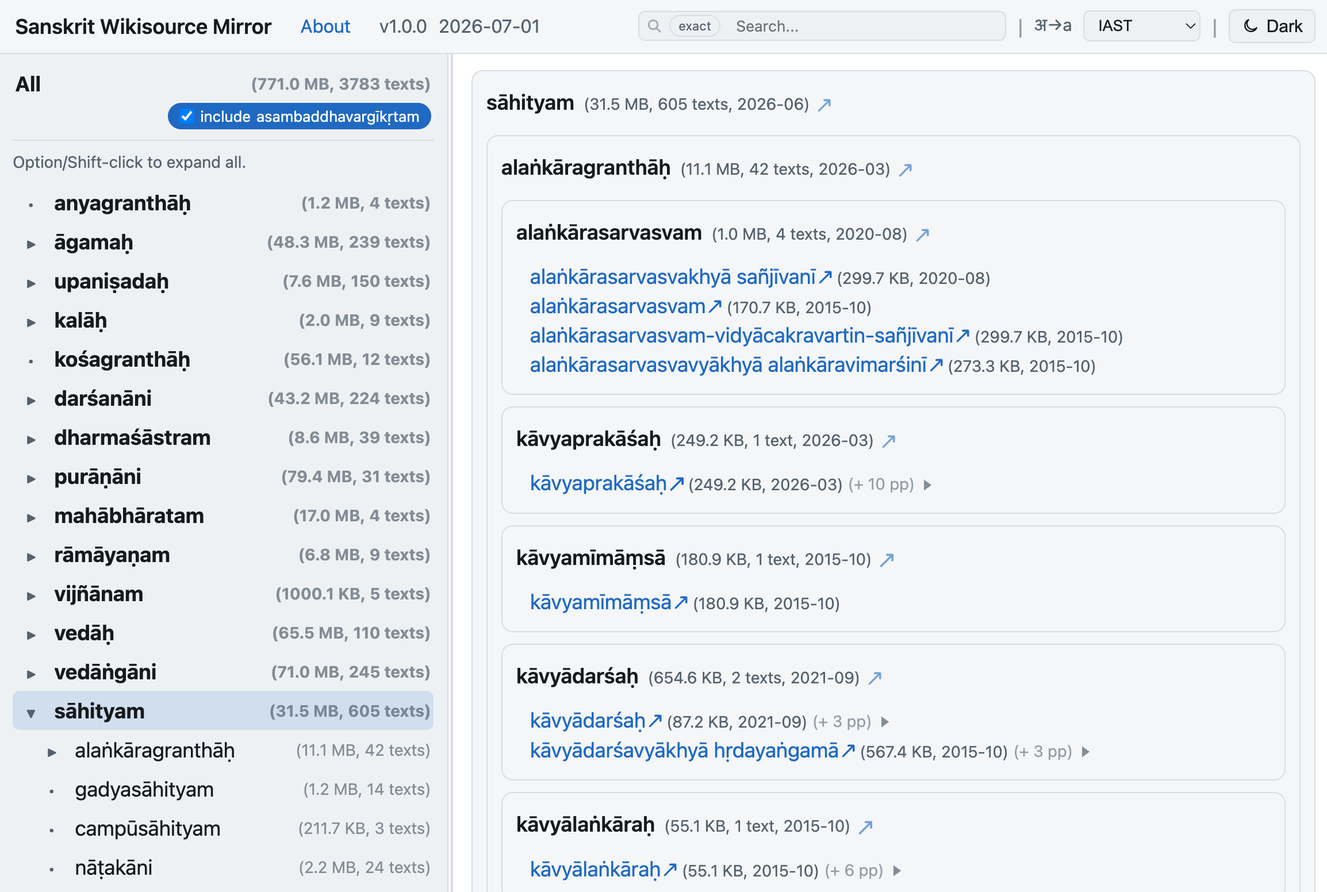
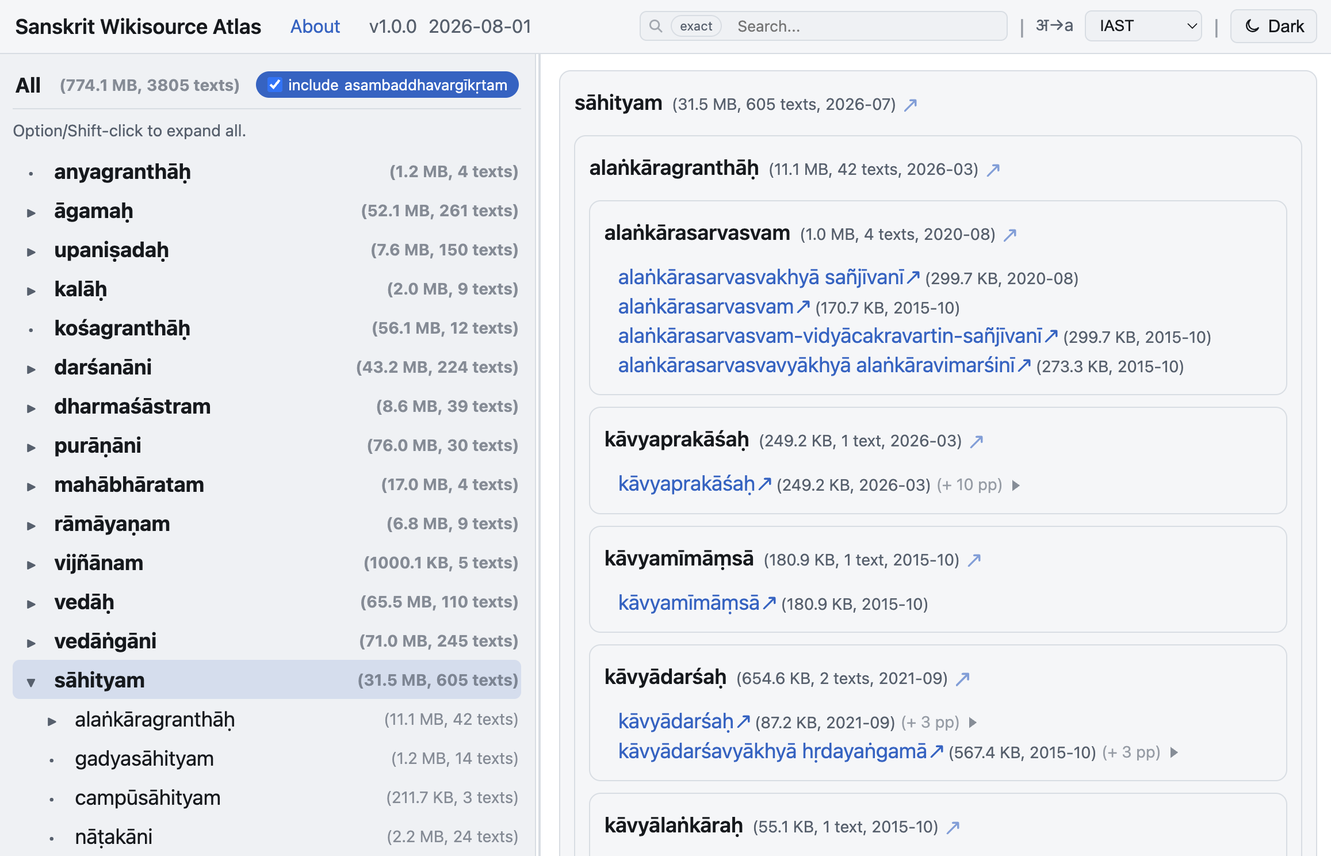
chore: update snapshots and some more wording

diff --git a/blog/sanskrit-wikisource-and-atlas.html b/blog/sanskrit-wikisource-and-atlas.html
@@ -39,7 +39,7 @@
             <h3>How useful is it?</h3>
             <p>On multiple occasions, I've found very interesting things there, like first-online full-text postings of Gaṅgeśa's Tattvacintāmaṇi and Śrīharṣa's Naiṣadhīyacarita. As far as I know, no one has undertaken a rigorous evaluation of its data quality relative to other well-known collections like GRETIL, but I think it is much more potentially useful than many people realize.</p>
 
-            <h3>But.</h3>
+            <h3>However.</h3>
             <p>The Wikisource platform has inherent pros and cons for hosting an evolving e-text collection like this, and on balance, I think the cons win out, with the result that the collection has not been living up to its potential. It's hard enough to keep a sprawling, decentralized project on track, and from what I've seen, the Sanskrit domain shows a worrying lack of curatorial vision — frankly just a lot of mess, which I'll discuss more below. As a result, it can be very hard to plumb its depths — a fact ironically reinforced by the Wikisource logo itself.</p>
 
             <figure>
@@ -53,9 +53,9 @@
 
             <p>The discerning user will not take long to notice that most Sanskrit Wikisource content lacks any usable metadata at all beyond revision history. Specifically, not knowing what edition or editions a given text is based on can make it extremely difficult to use responsibly. Users are left with the implicit claim that "this just <em>is <strong>the</strong></em> Pañcadaśī by Vidyāraṇya." An enterprising researcher may well figure it out by comparing against available printed editions. But why the guessing game?</p>
 
-            <p><em>The exception is items produced through Wikisource's in-built <a href="https://en.wikisource.org/wiki/Help:Proofread" target="_blank">Proofread</a> OCR pipeline, whose <a href="https://en.wikisource.org/wiki/Help:Index_pages" target="_blank">index pages</a> — called <a href="https://sa.wikisource.org/wiki/अनुक्रमणिका:A_Sanskrit_primer_(1901).djvu" target="_blank">अनुक्रमणिका</a> on the Sanskrit domain — sometimes link back to a source PDF title page.</em></p>
+            <p><em>The exception is items produced through Wikisource's in-built <a href="https://en.wikisource.org/wiki/Help:Proofread" target="_blank">Proofread</a> OCR pipeline, whose <a href="https://en.wikisource.org/wiki/Help:Index_pages" target="_blank"> Index pages</a> hold the source PDF. On the Sanskrit domain, these Index pages are called "अनुक्रमणिका;" see for example this <a href="https://sa.wikisource.org/wiki/अनुक्रमणिका%3Aन्यायमञ्जरी.pdf" target="_blank">Nyāyamañjarī</a> from the Kashi Sanskrit Series.</em></p>
 
-            <p>This is a real, philological problem. If it's going to be fixed anywhere, I think it should be done on-platform, in collaboration with the contributors who continue to add content.</p>
+            <p>This widespread lack of metadata is a real problem. If it's going to be fixed anywhere, I think it should be done on-platform, in collaboration with the contributors who continue to add content.</p>
 
             <p>Another set of problems, however, can be addressed relatively quickly with a light-touch technological solution.</p>
 
@@ -79,13 +79,13 @@
 
             <p>As for the categorical breakdown itself, it's mostly unobjectionable, but as is always the case, there can be a learning curve if you come from a different taxonomic perspective. And there is undoubtedly mess here, too. By convention on Wikisource, categories are supposed to form a single, cohesive tree covering everything, but some categories are misplaced (e.g., धर्मशास्त्रम् as a sibling of ग्रन्थाः rather than a child); some are unhelpfully separated due to naming differences (ज्योतिष्यम् 9.9 MB and ज्यौतिषम् 1.6 MB); some sit outside of the central tree (ज्यौतिषम् is within वेदाङ्गानि, but ज्योतिष्यम् is free-floating); and many items lack categories altogether.</p>
 
-            <p>And what is an "item" deserving of categorization anyway? It's quite subtle, actually. Abstraction to a "text" level is purely manual on Wikisource and can be done in various ways. One Wikisource editor may choose to put an entire Sanskrit text on a single page. Another may choose to spread it across dozens or hundreds of pages connected by nested tables of contents. Sometimes, the top-level table of contents page is not labeled with a Category, but second-tier (e.g., chapter) table-of-contents pages are. Furthermore, an editor may sometimes wish to rename one or more pages, but because it's hard to chase down and fix all inbound connections, they can just set up redirect pages, adding further layers of navigational complexity. Users are at the mercy of all this curatorial diversity, which may or may not be implemented correctly.</p>
+            <p>And what is an "item" deserving of categorization anyway? It's quite subtle, actually. Abstraction to a "text" level is purely manual on Wikisource and can be done in various ways. One Wikisource editor may choose to put an entire Sanskrit text on a single page. Another may choose to spread it across dozens or hundreds of pages connected by nested tables of contents. Sometimes, the top-level table-of-contents page is not labeled with a Category, but second-tier (e.g., chapter) table-of-contents pages are. Furthermore, an editor may sometimes wish to rename one or more pages, but because it's hard to chase down and fix all inbound connections, they can just set up redirect pages, adding further layers of navigational complexity. Users are at the mercy of all this curatorial diversity, which may or may not be implemented correctly.</p>
 
-            <p>Granted, there are other, non-categorical access options, as well: a search bar, and an alphabetical page index (e.g., <a href="https://sa.wikisource.org/wiki/विशेषः:सर्वपृष्ठानि/फ" target="_blank">फ</a>). But I find both of these to be myopically restrictive and disorienting in their own ways, too. My bet is that, even after trying all of the above, a typical user may still be shrugging their shoulders about whether this collection has material that might be useful to them — and might I add, probably just feeling exhausted by the austere wiki aesthetics of it all. After all the work that went in, by so many people, that's a shame.</p>
+            <p>Granted, there are other, non-categorical access options, as well: a search bar, and an alphabetical page index (e.g., <a href="https://sa.wikisource.org/wiki/विशेषः:सर्वपृष्ठानि/फ" target="_blank">फ</a>). But I find both of these to be myopically restrictive and disorienting in their own ways, too. My bet is that, even after trying all of the above, a typical user may still be shrugging their shoulders about whether this collection has material that might be useful to them — and might I add, probably feeling exhausted by the austere wiki aesthetics of it all. After all the work that went in, by so many people, that's a shame.</p>
 
             <h2>A Better Interface</h2>
 
-            <p>Fortunately, it's possible to create a better way in, even without modifying Wikisource. Based on my understanding of the collection's structure, I made such an alternate interface that I personally find much more user-friendly.</p>
+            <p>Fortunately, it's possible to create another way in, even without modifying Wikisource. Based on my understanding of the collection's structure, I made an alternate interface that I personally find much more user-friendly and informative.</p>
 
             <h3 style="text-align: center;"><a href="https://tylergneill.github.io/sanskrit-wikisource-atlas" target="_blank">https://tylergneill.github.io/sanskrit-wikisource-atlas</a></h3>
 
@@ -95,9 +95,9 @@
 
             <p>I call this new interface an "atlas" because it not only charts the navigable waters but also offers analytic insights not directly readable from the surface. It is purely a navigational layer, hosting no text of its own, so all of its links bring you to sa.wikisource.org. It understands and compensates for many of the issues listed above, giving you: 1) cleaner browsing and search in a single-page display with a sidebar; 2) no distracting Wikimedia artifacts (e.g., "निष्कासनाय", "to be deleted"); 3) transliteration options; 4) more intuitive abstraction to the "text" level; and 5) clearer stats, specifically page and text counts, plus size and last-updated info throughout.</p>
 
-            <p>The way I did it: 1) download the full data; 2) process it to calculate relationships and counts; 3) boil that info down to <a href="https://github.com/tylergneill/sanskrit-wikisource-atlas/tree/main/docs/data" target="_blank">a single main data file</a>; and then 4) build a simple single-page app on top of that file, which GitHub Pages easily hosts for free.</p>
+            <p>The way I did it: 1) download the full data; 2) process it to calculate relationships and counts; 3) boil that info down to <a href="https://github.com/tylergneill/sanskrit-wikisource-atlas/tree/main/docs/data" target="_blank">a single main data file</a>; and then 4) build a simple website on top of that file, which GitHub Pages easily hosts for free.</p>
 
-            <p>The main reason I do not re-host the full text data myself, as a true "mirror" would do, is that the collection is demonstrably still living and growing. The Atlas's last-updated info for each item clearly shows this, as does Wikisource's own <a href="https://sa.wikisource.org/wiki/विशेषः:नूतनपरिवर्तनानि" target="_blank">"सद्यपरिवर्तनानि," i.e., Recent Changes page</a>. Like <a href="../projects#panditya">Pāṇḍitya's</a> use of <a href="https://panditproject.org" target="_blank">Pandit Project</a>, this Atlas starts from a data snapshot, builds functionality on top, and points back to the source for further reference. That does mean that it needs to be periodically refreshed to stay current. Fortunately, an <a href="https://github.com/tylergneill/sanskrit-wikisource-atlas/tree/main/pipeline" target="_blank">automated pipeline&nbsp;</a> makes that simple.</p>
+            <p>The main reason I do not re-host the full text data myself, as a true "mirror" would do, is that the collection is demonstrably still living and growing. The Atlas's last-updated info for each item clearly shows this, as does Wikisource's own <a href="https://sa.wikisource.org/wiki/विशेषः:नूतनपरिवर्तनानि" target="_blank">"सद्यपरिवर्तनानि," i.e., Recent Changes page</a>. Like <a href="../projects#panditya">Pāṇḍitya's</a> use of <a href="https://panditproject.org" target="_blank">Pandit Project</a>, this Atlas starts from a data snapshot, builds functionality on top, and points back to the source for further reference. That does mean that it needs to be periodically refreshed to stay current. Fortunately, an <a href="https://github.com/tylergneill/sanskrit-wikisource-atlas/tree/main/pipeline" target="_blank">automated pipeline&nbsp;</a> makes that easy.</p>
 
             <p>What the snapshot numbers from Summer 2026 reveal: Sanskrit Wikisource holds over <strong>700 MB</strong> of plain-text content (measured in IAST) in something like 2,000–3,000 texts across over 26,000 individual web pages. For comparison, GRETIL is around 350 MB before controlling for duplication, roughly 175 MB and 700 unique works after (see <a href="gretil-past-and-present">my previous post</a>). In short, Sanskrit Wikisource is definitely huge — roughly <strong>2–4x the size of GRETIL</strong> — and it's very interesting.</p>
 
@@ -116,7 +116,7 @@
 
             <figure>
                 <img src="../images/my_project_screenshots/sa-wiki-atlas-data-reports.png" alt="Sanskrit Wikisource Atlas About page data reports">
-                <figcaption>Atlas About page data reports, generating practical insights that will help improve the source collection</figcaption>
+                <figcaption>Atlas About page data reports, for understanding and improving the source collection</figcaption>
             </figure>
 
             <h2>Charting a Course</h2>
@@ -125,19 +125,19 @@
 
             <h3>Option 1: Duplicate the Data and Don't Look Back</h3>
 
-            <p>Some people will see the value of Sanskrit Wikisource as content they can take and add to their own aggregation effort. To be sure, doing so opens up interesting possibilities for federated processing, like search. Examples are Vishvas Vasuki's <a href="https://github.com/sanskrit/raw_etexts" target="_blank">raw_etexts GitHub repo</a> and Harry Spier's <a href="https://www.searchable-sanskrit-library.org/" target="_blank">Searchable Aggregate Library of Sanskrit</a>. A separate question is whether one will feed eventual improvements back upstream, to improve the source project itself. Wikisource's default license is <a href="https://creativecommons.org/licenses/by-sa/4.0/deed.en" target="_blank">CC BY-SA 4.0</a>, which means that you can do whatever you want as long as you make a properly detailed acknowledgment — the BY part — and release your adaptation under either CC BY-SA 4.0 exactly or another license that Creative Commons has officially designated as one-way or two-way compatible with CC BY-SA 4.0 — the SA part.</p>
+            <p>Some people will see the value of Sanskrit Wikisource as content they can take and add to their own aggregation effort. To be sure, doing so opens up interesting possibilities for federated processing, like search. Examples are Vishvas Vasuki's <a href="https://github.com/sanskrit/raw_etexts" target="_blank">raw_etexts GitHub repo</a> and Harry Spier's <a href="https://www.searchable-sanskrit-library.org/" target="_blank">Searchable Aggregate Library of Sanskrit</a>. A separate question is whether one will also feed eventual improvements back upstream, to help the source project itself. Wikisource's default license is <a href="https://creativecommons.org/licenses/by-sa/4.0/deed.en" target="_blank">CC BY-SA 4.0</a>, which means that you can do whatever you want with its material as long as you 1) make a properly detailed acknowledgment — the BY part — and 2) release your adaptation under either CC BY-SA 4.0 exactly or another license that Creative Commons has officially designated as one-way or two-way compatible with CC BY-SA 4.0 — the SA part.</p>
 
             <p>That all said, I hope to have shown in this post why this kind of copy-and-go strategy is not a properly scholarly approach in this particular case, for three reasons. First, as a whole, Sanskrit Wikisource is riddled with organizational issues, with the result that an extraction effort will very likely make interpretive mistakes. Second, the individual items badly need more metadata for them to be of good scholarly use, and if such philological attention is going to be paid, it should be done at the source, rather than re-derived privately by each person who makes a copy. And third, the collection is still being edited all the time, so any wholesale snapshot will become misleadingly stale before long.</p>
 
-            <p><em>As an interesting aside, the Atlas pipeline system also surfaces <a href="https://tylergneill.github.io/sanskrit-wikisource-atlas/about.html#provenance-insights" target="_blank">provenance insights</a> about borrowing in the other direction. For at least 244 pages (about 5% of the total collection by content size), Sanskrit Wikisource has itself directly borrowed from other collections, including sanskritdocuments.org, Muktabodha, GRETIL, and others.</em></p>
+            <p><em>As an interesting aside, the Atlas pipeline system also surfaces <a href="https://tylergneill.github.io/sanskrit-wikisource-atlas/about.html#provenance-insights" target="_blank">provenance insights</a> about borrowing in the other direction. For at least 244 pages (about 5% of the total collection by content size), Sanskrit Wikisource has itself directly borrowed from other collections, including Sanskrit Documents, Muktabodha, GRETIL, and others.</em></p>
 
             <h3>Option 2: Adopt the Best, Clean Up the Rest</h3>
 
-            <p>Instead, my opinion is that we as a scholarly community should approach items one by one, study them carefully, and where possible, improve them and transplant them onto platforms built for proper scholarly curation. That is what I intend to do in select cases with <a href="https://hansel-library.info" target="_blank">HANSEL</a>.</p>
+            <p>Instead, my opinion is that we as a scholarly community should approach items one by one, study them carefully, and where appropriate, transplant them onto other platforms where they may receive more care and attention. That is what I intend to do in select cases with <a href="https://hansel-library.info" target="_blank">HANSEL</a>.</p>
 
-            <p>AND I believe we should invest effort improving Sanskrit Wikisource in-place, as well, either at the top, navigational level, or at lower levels like categories and metadata. For example, I voiced a lot of dissatisfaction with the home page, but I could also try to change it. Similarly, if I see something miscategorized, why not just submit an edit and see what happens? My honest answer: Before having this Atlas as a tool, I did not feel very motivated to do this on any sort of scale. Not yet being a part of the editing community myself, but having had certain experiences on Wikipedia, I know that it's possible that my changes may (and should!) be reverted if I don't approach things properly. More crucially, though, I didn't have enough perspective to know whether my effort would make a difference.</p>
+            <p>AND I believe we should invest effort improving Sanskrit Wikisource in-place, as well, whether at the top, navigational level, or at lower levels like categories and metadata. For example, I voiced a lot of dissatisfaction with the home page, but I could also try to change it. Similarly, if I see something miscategorized, why not just submit an edit and see what happens? My honest answer: Before having this Atlas as a tool, I did not feel very motivated to do this on any sort of scale. Not yet being a part of the editing community myself, but having had certain experiences on Wikipedia, I know that it's possible that my changes may (and should!) be reverted if I don't approach things properly. More crucially, though, I didn't have enough perspective to know whether my effort would make much of a difference in the grand scheme of things.</p>
 
-            <p>Now though, with the Atlas as a tool to illuminate these forbidding depths, I have much more confidence that I understand the finite number of critical edits needed to fix the site's major problems. A concerted improvement campaign is now possible because I know the extent of the job: what each step consists in, and when I'll be able to say that I'm done. Also, since the Atlas is public and didactic in nature, anyone else who is curious can immediately get the full perspective and be motivated to pitch in, too.</p>
+            <p>Now though, with the Atlas as a tool to illuminate these otherwise forbidding depths, I have much more confidence that I understand the finite number of critical edits needed to fix the site's major problems. A concerted improvement campaign is now possible because I know the extent of the job: what each step consists in, and when I'll be able to say that I'm done. Also, since the Atlas is public and didactic in nature, anyone else who is curious can immediately get the full perspective and be motivated to pitch in, too.</p>
 
             <h2>Coming Back to the Surface</h2>
 

diff --git a/blog/src/sanskrit-wikisource-and-atlas.html b/blog/src/sanskrit-wikisource-and-atlas.html
@@ -9,7 +9,7 @@
             <h3>How useful is it?</h3>
             <p>On multiple occasions, I've found very interesting things there, like first-online full-text postings of Gaṅgeśa's Tattvacintāmaṇi and Śrīharṣa's Naiṣadhīyacarita. As far as I know, no one has undertaken a rigorous evaluation of its data quality relative to other well-known collections like GRETIL, but I think it is much more potentially useful than many people realize.</p>
 
-            <h3>But.</h3>
+            <h3>However.</h3>
             <p>The Wikisource platform has inherent pros and cons for hosting an evolving e-text collection like this, and on balance, I think the cons win out, with the result that the collection has not been living up to its potential. It's hard enough to keep a sprawling, decentralized project on track, and from what I've seen, the Sanskrit domain shows a worrying lack of curatorial vision — frankly just a lot of mess, which I'll discuss more below. As a result, it can be very hard to plumb its depths — a fact ironically reinforced by the Wikisource logo itself.</p>
 
             <figure>
@@ -23,9 +23,9 @@
 
             <p>The discerning user will not take long to notice that most Sanskrit Wikisource content lacks any usable metadata at all beyond revision history. Specifically, not knowing what edition or editions a given text is based on can make it extremely difficult to use responsibly. Users are left with the implicit claim that "this just <em>is <strong>the</strong></em> Pañcadaśī by Vidyāraṇya." An enterprising researcher may well figure it out by comparing against available printed editions. But why the guessing game?</p>
 
-            <p><em>The exception is items produced through Wikisource's in-built <a href="https://en.wikisource.org/wiki/Help:Proofread" target="_blank">Proofread</a> OCR pipeline, whose <a href="https://en.wikisource.org/wiki/Help:Index_pages" target="_blank">index pages</a> — called <a href="https://sa.wikisource.org/wiki/अनुक्रमणिका:A_Sanskrit_primer_(1901).djvu" target="_blank">अनुक्रमणिका</a> on the Sanskrit domain — sometimes link back to a source PDF title page.</em></p>
+            <p><em>The exception is items produced through Wikisource's in-built <a href="https://en.wikisource.org/wiki/Help:Proofread" target="_blank">Proofread</a> OCR pipeline, whose <a href="https://en.wikisource.org/wiki/Help:Index_pages" target="_blank"> Index pages</a> hold the source PDF. On the Sanskrit domain, these Index pages are called "अनुक्रमणिका;" see for example this <a href="https://sa.wikisource.org/wiki/अनुक्रमणिका%3Aन्यायमञ्जरी.pdf" target="_blank">Nyāyamañjarī</a> from the Kashi Sanskrit Series.</em></p>
 
-            <p>This is a real, philological problem. If it's going to be fixed anywhere, I think it should be done on-platform, in collaboration with the contributors who continue to add content.</p>
+            <p>This widespread lack of metadata is a real problem. If it's going to be fixed anywhere, I think it should be done on-platform, in collaboration with the contributors who continue to add content.</p>
 
             <p>Another set of problems, however, can be addressed relatively quickly with a light-touch technological solution.</p>
 
@@ -49,13 +49,13 @@
 
             <p>As for the categorical breakdown itself, it's mostly unobjectionable, but as is always the case, there can be a learning curve if you come from a different taxonomic perspective. And there is undoubtedly mess here, too. By convention on Wikisource, categories are supposed to form a single, cohesive tree covering everything, but some categories are misplaced (e.g., धर्मशास्त्रम् as a sibling of ग्रन्थाः rather than a child); some are unhelpfully separated due to naming differences (ज्योतिष्यम् 9.9 MB and ज्यौतिषम् 1.6 MB); some sit outside of the central tree (ज्यौतिषम् is within वेदाङ्गानि, but ज्योतिष्यम् is free-floating); and many items lack categories altogether.</p>
 
-            <p>And what is an "item" deserving of categorization anyway? It's quite subtle, actually. Abstraction to a "text" level is purely manual on Wikisource and can be done in various ways. One Wikisource editor may choose to put an entire Sanskrit text on a single page. Another may choose to spread it across dozens or hundreds of pages connected by nested tables of contents. Sometimes, the top-level table of contents page is not labeled with a Category, but second-tier (e.g., chapter) table-of-contents pages are. Furthermore, an editor may sometimes wish to rename one or more pages, but because it's hard to chase down and fix all inbound connections, they can just set up redirect pages, adding further layers of navigational complexity. Users are at the mercy of all this curatorial diversity, which may or may not be implemented correctly.</p>
+            <p>And what is an "item" deserving of categorization anyway? It's quite subtle, actually. Abstraction to a "text" level is purely manual on Wikisource and can be done in various ways. One Wikisource editor may choose to put an entire Sanskrit text on a single page. Another may choose to spread it across dozens or hundreds of pages connected by nested tables of contents. Sometimes, the top-level table-of-contents page is not labeled with a Category, but second-tier (e.g., chapter) table-of-contents pages are. Furthermore, an editor may sometimes wish to rename one or more pages, but because it's hard to chase down and fix all inbound connections, they can just set up redirect pages, adding further layers of navigational complexity. Users are at the mercy of all this curatorial diversity, which may or may not be implemented correctly.</p>
 
-            <p>Granted, there are other, non-categorical access options, as well: a search bar, and an alphabetical page index (e.g., <a href="https://sa.wikisource.org/wiki/विशेषः:सर्वपृष्ठानि/फ" target="_blank">फ</a>). But I find both of these to be myopically restrictive and disorienting in their own ways, too. My bet is that, even after trying all of the above, a typical user may still be shrugging their shoulders about whether this collection has material that might be useful to them — and might I add, probably just feeling exhausted by the austere wiki aesthetics of it all. After all the work that went in, by so many people, that's a shame.</p>
+            <p>Granted, there are other, non-categorical access options, as well: a search bar, and an alphabetical page index (e.g., <a href="https://sa.wikisource.org/wiki/विशेषः:सर्वपृष्ठानि/फ" target="_blank">फ</a>). But I find both of these to be myopically restrictive and disorienting in their own ways, too. My bet is that, even after trying all of the above, a typical user may still be shrugging their shoulders about whether this collection has material that might be useful to them — and might I add, probably feeling exhausted by the austere wiki aesthetics of it all. After all the work that went in, by so many people, that's a shame.</p>
 
             <h2>A Better Interface</h2>
 
-            <p>Fortunately, it's possible to create a better way in, even without modifying Wikisource. Based on my understanding of the collection's structure, I made such an alternate interface that I personally find much more user-friendly.</p>
+            <p>Fortunately, it's possible to create another way in, even without modifying Wikisource. Based on my understanding of the collection's structure, I made an alternate interface that I personally find much more user-friendly and informative.</p>
 
             <h3 style="text-align: center;"><a href="https://tylergneill.github.io/sanskrit-wikisource-atlas" target="_blank">https://tylergneill.github.io/sanskrit-wikisource-atlas</a></h3>
 
@@ -65,9 +65,9 @@
 
             <p>I call this new interface an "atlas" because it not only charts the navigable waters but also offers analytic insights not directly readable from the surface. It is purely a navigational layer, hosting no text of its own, so all of its links bring you to sa.wikisource.org. It understands and compensates for many of the issues listed above, giving you: 1) cleaner browsing and search in a single-page display with a sidebar; 2) no distracting Wikimedia artifacts (e.g., "निष्कासनाय", "to be deleted"); 3) transliteration options; 4) more intuitive abstraction to the "text" level; and 5) clearer stats, specifically page and text counts, plus size and last-updated info throughout.</p>
 
-            <p>The way I did it: 1) download the full data; 2) process it to calculate relationships and counts; 3) boil that info down to <a href="https://github.com/tylergneill/sanskrit-wikisource-atlas/tree/main/docs/data" target="_blank">a single main data file</a>; and then 4) build a simple single-page app on top of that file, which GitHub Pages easily hosts for free.</p>
+            <p>The way I did it: 1) download the full data; 2) process it to calculate relationships and counts; 3) boil that info down to <a href="https://github.com/tylergneill/sanskrit-wikisource-atlas/tree/main/docs/data" target="_blank">a single main data file</a>; and then 4) build a simple website on top of that file, which GitHub Pages easily hosts for free.</p>
 
-            <p>The main reason I do not re-host the full text data myself, as a true "mirror" would do, is that the collection is demonstrably still living and growing. The Atlas's last-updated info for each item clearly shows this, as does Wikisource's own <a href="https://sa.wikisource.org/wiki/विशेषः:नूतनपरिवर्तनानि" target="_blank">"सद्यपरिवर्तनानि," i.e., Recent Changes page</a>. Like <a href="../projects#panditya">Pāṇḍitya's</a> use of <a href="https://panditproject.org" target="_blank">Pandit Project</a>, this Atlas starts from a data snapshot, builds functionality on top, and points back to the source for further reference. That does mean that it needs to be periodically refreshed to stay current. Fortunately, an <a href="https://github.com/tylergneill/sanskrit-wikisource-atlas/tree/main/pipeline" target="_blank">automated pipeline&nbsp;</a> makes that simple.</p>
+            <p>The main reason I do not re-host the full text data myself, as a true "mirror" would do, is that the collection is demonstrably still living and growing. The Atlas's last-updated info for each item clearly shows this, as does Wikisource's own <a href="https://sa.wikisource.org/wiki/विशेषः:नूतनपरिवर्तनानि" target="_blank">"सद्यपरिवर्तनानि," i.e., Recent Changes page</a>. Like <a href="../projects#panditya">Pāṇḍitya's</a> use of <a href="https://panditproject.org" target="_blank">Pandit Project</a>, this Atlas starts from a data snapshot, builds functionality on top, and points back to the source for further reference. That does mean that it needs to be periodically refreshed to stay current. Fortunately, an <a href="https://github.com/tylergneill/sanskrit-wikisource-atlas/tree/main/pipeline" target="_blank">automated pipeline&nbsp;</a> makes that easy.</p>
 
             <p>What the snapshot numbers from Summer 2026 reveal: Sanskrit Wikisource holds over <strong>700 MB</strong> of plain-text content (measured in IAST) in something like 2,000–3,000 texts across over 26,000 individual web pages. For comparison, GRETIL is around 350 MB before controlling for duplication, roughly 175 MB and 700 unique works after (see <a href="gretil-past-and-present">my previous post</a>). In short, Sanskrit Wikisource is definitely huge — roughly <strong>2–4x the size of GRETIL</strong> — and it's very interesting.</p>
 
@@ -86,7 +86,7 @@
 
             <figure>
                 <img src="../images/my_project_screenshots/sa-wiki-atlas-data-reports.png" alt="Sanskrit Wikisource Atlas About page data reports">
-                <figcaption>Atlas About page data reports, generating practical insights that will help improve the source collection</figcaption>
+                <figcaption>Atlas About page data reports, for understanding and improving the source collection</figcaption>
             </figure>
 
             <h2>Charting a Course</h2>
@@ -95,19 +95,19 @@
 
             <h3>Option 1: Duplicate the Data and Don't Look Back</h3>
 
-            <p>Some people will see the value of Sanskrit Wikisource as content they can take and add to their own aggregation effort. To be sure, doing so opens up interesting possibilities for federated processing, like search. Examples are Vishvas Vasuki's <a href="https://github.com/sanskrit/raw_etexts" target="_blank">raw_etexts GitHub repo</a> and Harry Spier's <a href="https://www.searchable-sanskrit-library.org/" target="_blank">Searchable Aggregate Library of Sanskrit</a>. A separate question is whether one will feed eventual improvements back upstream, to improve the source project itself. Wikisource's default license is <a href="https://creativecommons.org/licenses/by-sa/4.0/deed.en" target="_blank">CC BY-SA 4.0</a>, which means that you can do whatever you want as long as you make a properly detailed acknowledgment — the BY part — and release your adaptation under either CC BY-SA 4.0 exactly or another license that Creative Commons has officially designated as one-way or two-way compatible with CC BY-SA 4.0 — the SA part.</p>
+            <p>Some people will see the value of Sanskrit Wikisource as content they can take and add to their own aggregation effort. To be sure, doing so opens up interesting possibilities for federated processing, like search. Examples are Vishvas Vasuki's <a href="https://github.com/sanskrit/raw_etexts" target="_blank">raw_etexts GitHub repo</a> and Harry Spier's <a href="https://www.searchable-sanskrit-library.org/" target="_blank">Searchable Aggregate Library of Sanskrit</a>. A separate question is whether one will also feed eventual improvements back upstream, to help the source project itself. Wikisource's default license is <a href="https://creativecommons.org/licenses/by-sa/4.0/deed.en" target="_blank">CC BY-SA 4.0</a>, which means that you can do whatever you want with its material as long as you 1) make a properly detailed acknowledgment — the BY part — and 2) release your adaptation under either CC BY-SA 4.0 exactly or another license that Creative Commons has officially designated as one-way or two-way compatible with CC BY-SA 4.0 — the SA part.</p>
 
             <p>That all said, I hope to have shown in this post why this kind of copy-and-go strategy is not a properly scholarly approach in this particular case, for three reasons. First, as a whole, Sanskrit Wikisource is riddled with organizational issues, with the result that an extraction effort will very likely make interpretive mistakes. Second, the individual items badly need more metadata for them to be of good scholarly use, and if such philological attention is going to be paid, it should be done at the source, rather than re-derived privately by each person who makes a copy. And third, the collection is still being edited all the time, so any wholesale snapshot will become misleadingly stale before long.</p>
 
-            <p><em>As an interesting aside, the Atlas pipeline system also surfaces <a href="https://tylergneill.github.io/sanskrit-wikisource-atlas/about.html#provenance-insights" target="_blank">provenance insights</a> about borrowing in the other direction. For at least 244 pages (about 5% of the total collection by content size), Sanskrit Wikisource has itself directly borrowed from other collections, including sanskritdocuments.org, Muktabodha, GRETIL, and others.</em></p>
+            <p><em>As an interesting aside, the Atlas pipeline system also surfaces <a href="https://tylergneill.github.io/sanskrit-wikisource-atlas/about.html#provenance-insights" target="_blank">provenance insights</a> about borrowing in the other direction. For at least 244 pages (about 5% of the total collection by content size), Sanskrit Wikisource has itself directly borrowed from other collections, including Sanskrit Documents, Muktabodha, GRETIL, and others.</em></p>
 
             <h3>Option 2: Adopt the Best, Clean Up the Rest</h3>
 
-            <p>Instead, my opinion is that we as a scholarly community should approach items one by one, study them carefully, and where possible, improve them and transplant them onto platforms built for proper scholarly curation. That is what I intend to do in select cases with <a href="https://hansel-library.info" target="_blank">HANSEL</a>.</p>
+            <p>Instead, my opinion is that we as a scholarly community should approach items one by one, study them carefully, and where appropriate, transplant them onto other platforms where they may receive more care and attention. That is what I intend to do in select cases with <a href="https://hansel-library.info" target="_blank">HANSEL</a>.</p>
 
-            <p>AND I believe we should invest effort improving Sanskrit Wikisource in-place, as well, either at the top, navigational level, or at lower levels like categories and metadata. For example, I voiced a lot of dissatisfaction with the home page, but I could also try to change it. Similarly, if I see something miscategorized, why not just submit an edit and see what happens? My honest answer: Before having this Atlas as a tool, I did not feel very motivated to do this on any sort of scale. Not yet being a part of the editing community myself, but having had certain experiences on Wikipedia, I know that it's possible that my changes may (and should!) be reverted if I don't approach things properly. More crucially, though, I didn't have enough perspective to know whether my effort would make a difference.</p>
+            <p>AND I believe we should invest effort improving Sanskrit Wikisource in-place, as well, whether at the top, navigational level, or at lower levels like categories and metadata. For example, I voiced a lot of dissatisfaction with the home page, but I could also try to change it. Similarly, if I see something miscategorized, why not just submit an edit and see what happens? My honest answer: Before having this Atlas as a tool, I did not feel very motivated to do this on any sort of scale. Not yet being a part of the editing community myself, but having had certain experiences on Wikipedia, I know that it's possible that my changes may (and should!) be reverted if I don't approach things properly. More crucially, though, I didn't have enough perspective to know whether my effort would make much of a difference in the grand scheme of things.</p>
 
-            <p>Now though, with the Atlas as a tool to illuminate these forbidding depths, I have much more confidence that I understand the finite number of critical edits needed to fix the site's major problems. A concerted improvement campaign is now possible because I know the extent of the job: what each step consists in, and when I'll be able to say that I'm done. Also, since the Atlas is public and didactic in nature, anyone else who is curious can immediately get the full perspective and be motivated to pitch in, too.</p>
+            <p>Now though, with the Atlas as a tool to illuminate these otherwise forbidding depths, I have much more confidence that I understand the finite number of critical edits needed to fix the site's major problems. A concerted improvement campaign is now possible because I know the extent of the job: what each step consists in, and when I'll be able to say that I'm done. Also, since the Atlas is public and didactic in nature, anyone else who is curious can immediately get the full perspective and be motivated to pitch in, too.</p>
 
             <h2>Coming Back to the Surface</h2>
 
